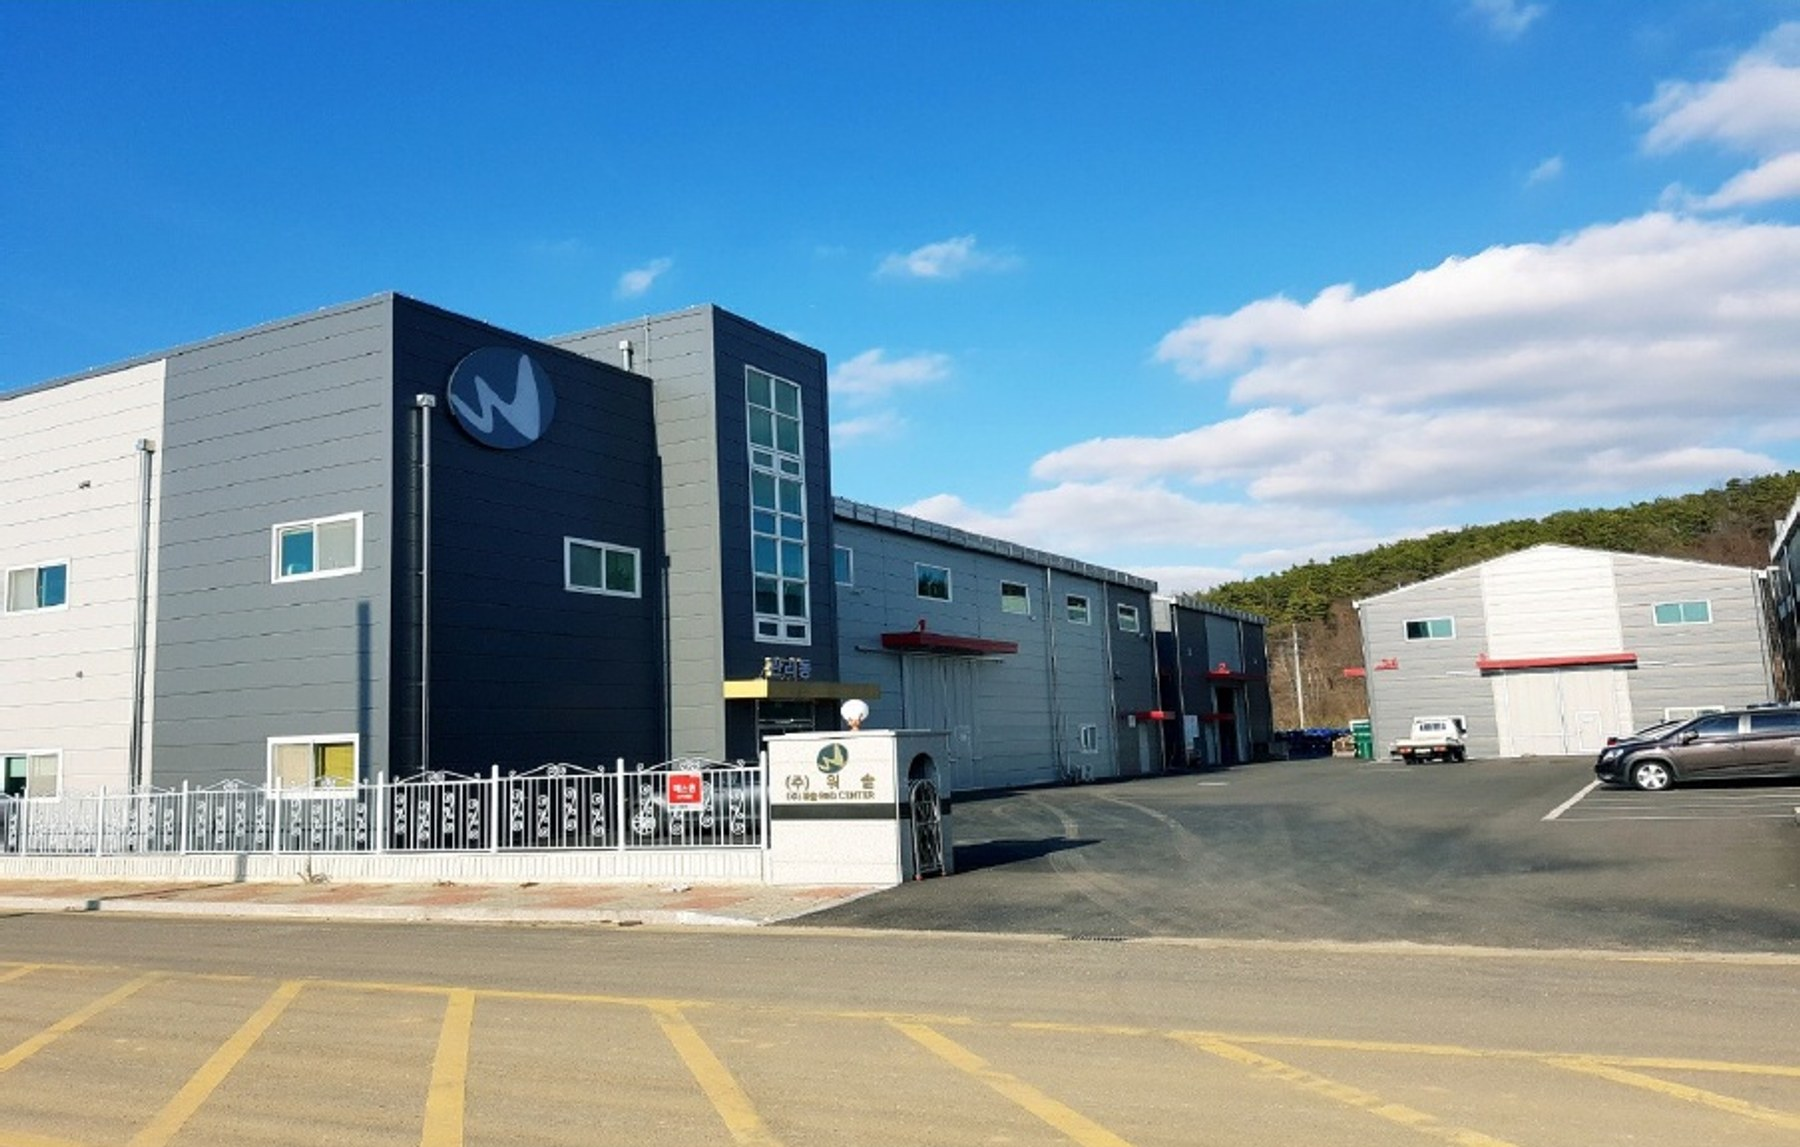
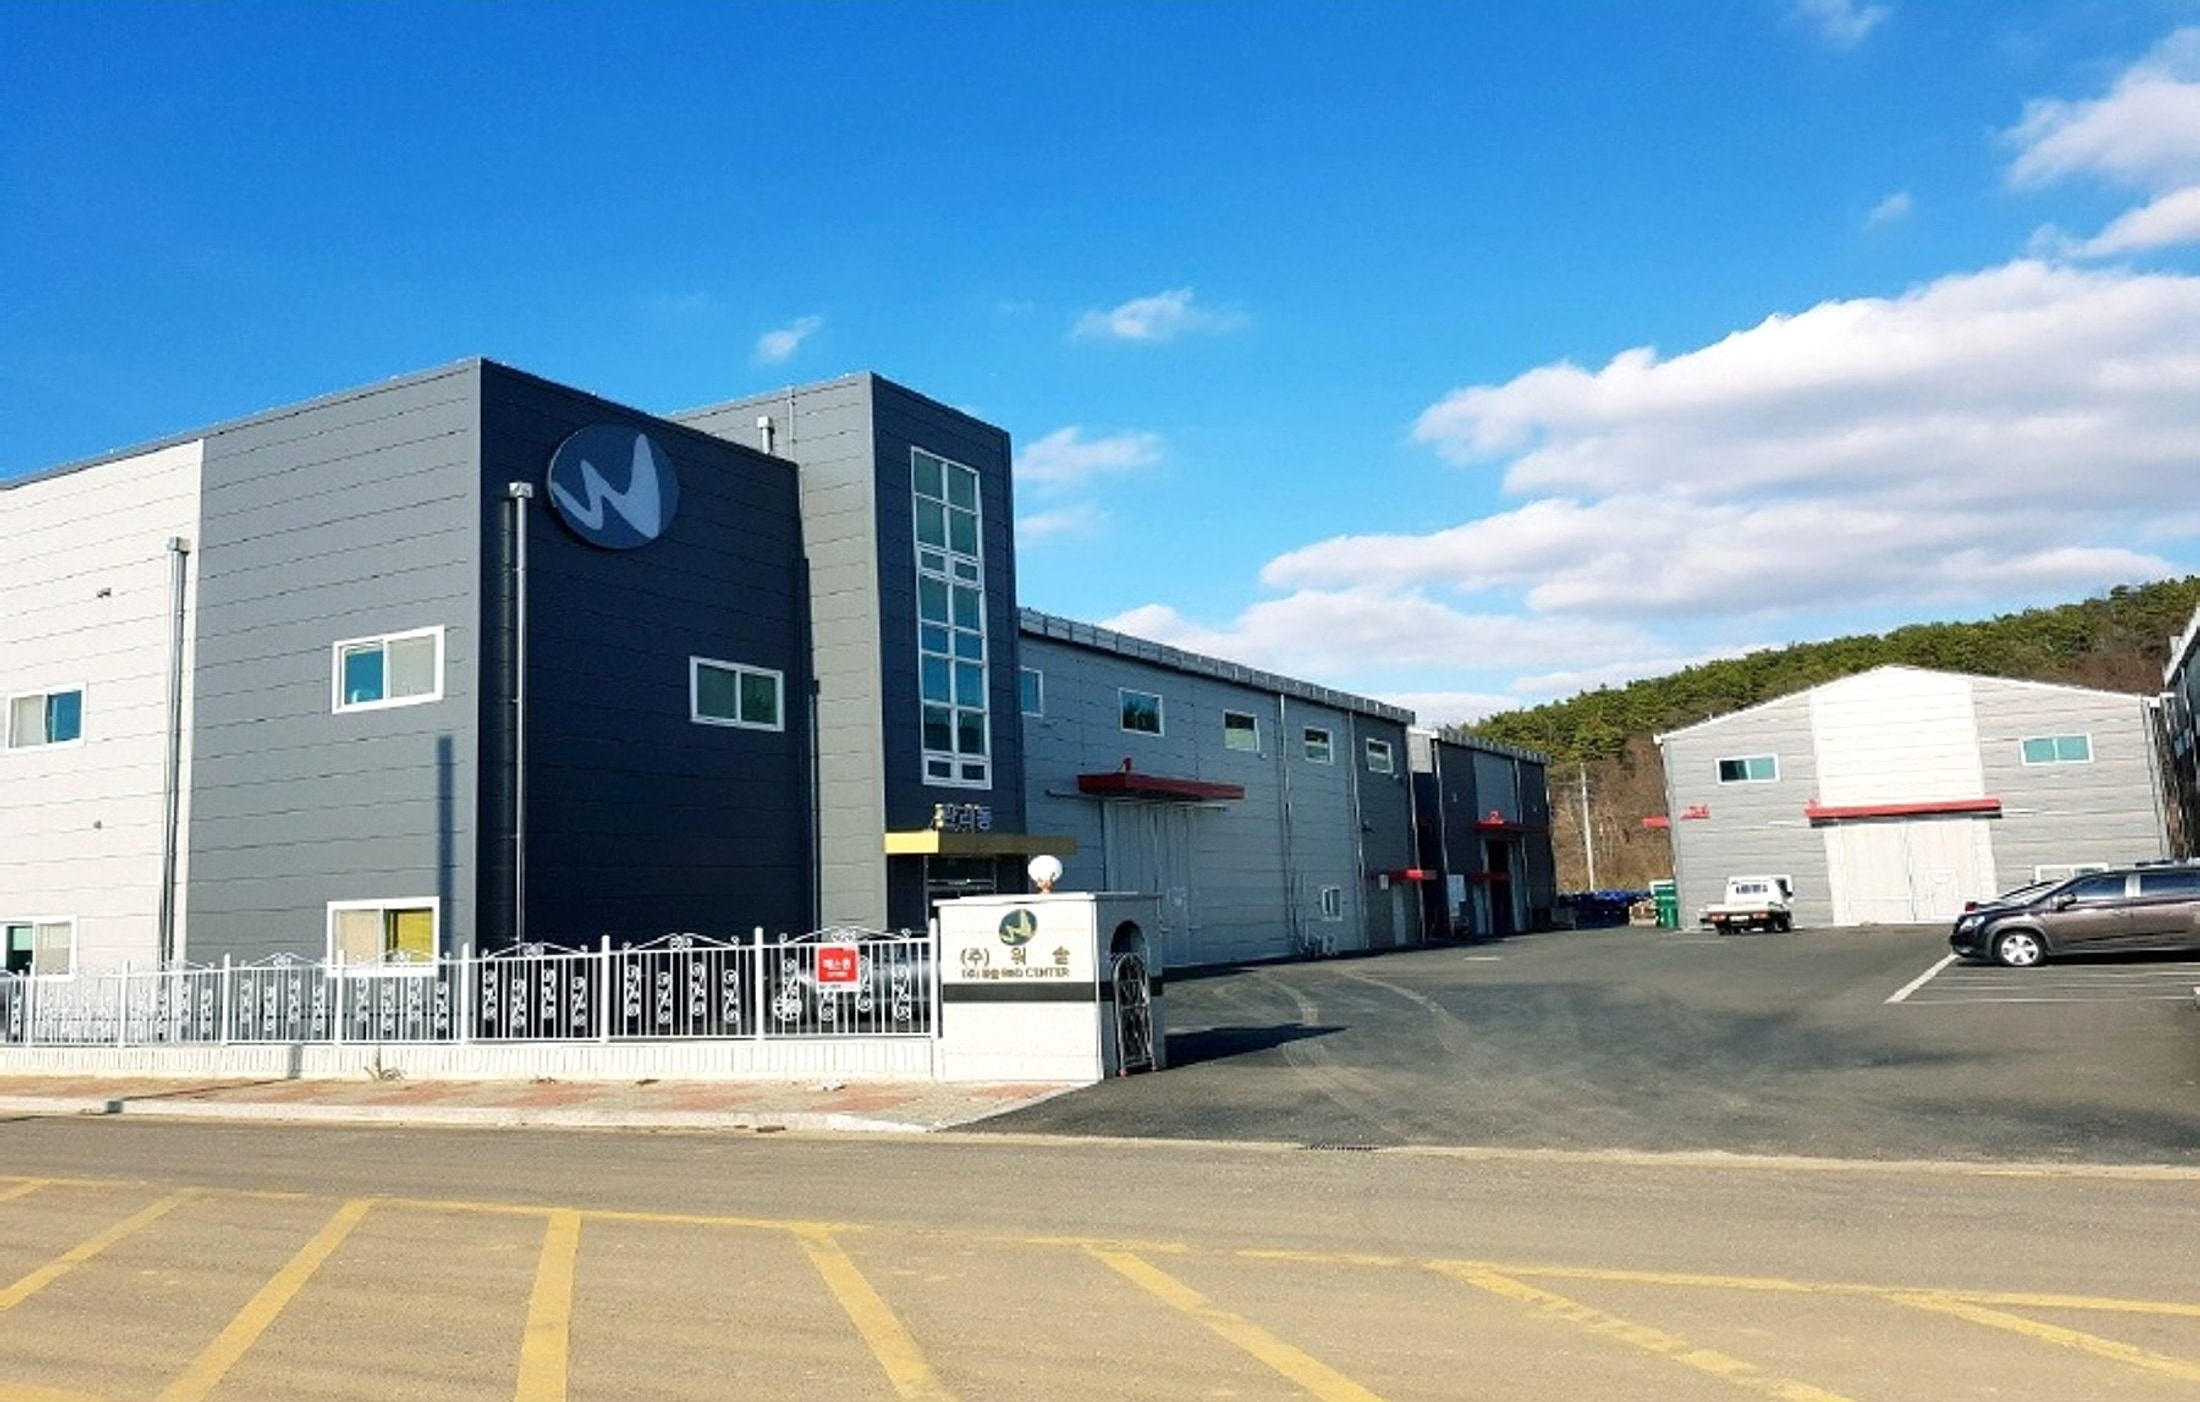
Tune home hero framing

diff --git a/components/sections/LightPremiumHero.tsx b/components/sections/LightPremiumHero.tsx
@@ -36,25 +36,22 @@ const heroEntries = [
 
 export function LightPremiumHero() {
   return (
-    <section className="enterprise-photo-hero relative overflow-hidden bg-[#06182b] text-white sm:min-h-[720px] lg:min-h-[790px]">
+    <section className="enterprise-photo-hero relative h-[calc(100svh-82px)] min-h-[650px] max-h-[760px] overflow-hidden bg-[#06182b] text-white">
       <Image
         src={`${publicAssetPrefix}/images/hero/warsol-hwaseong-factory-hero.jpg`}
         alt="경기도 화성시 전곡산업단지에 위치한 WARSOL 공장 전경"
         fill
         priority
         sizes="100vw"
-        className="object-cover object-center"
+        className="object-cover object-[center_58%] brightness-[1.04] contrast-[1.06] saturate-[1.04]"
       />
-      <div className="absolute inset-0 bg-[linear-gradient(90deg,rgba(2,8,23,0.12)_0%,rgba(5,20,37,0.25)_42%,rgba(2,8,23,0.78)_100%)]" />
-      <div className="absolute inset-0 bg-[linear-gradient(180deg,rgba(2,8,23,0.08)_0%,rgba(2,8,23,0.04)_38%,rgba(2,8,23,0.74)_100%)]" />
+      <div className="absolute inset-0 bg-[linear-gradient(90deg,rgba(2,8,23,0.08)_0%,rgba(5,20,37,0.18)_42%,rgba(2,8,23,0.64)_100%)]" />
+      <div className="absolute inset-0 bg-[linear-gradient(180deg,rgba(2,8,23,0.04)_0%,rgba(2,8,23,0.02)_38%,rgba(2,8,23,0.58)_100%)]" />
 
-      <div className="container relative z-10 flex min-h-[560px] items-center justify-end pb-12 pt-20 text-right sm:min-h-[720px] sm:pb-44 sm:pt-24 lg:min-h-[790px] lg:pb-48">
-        <Reveal className="ml-auto w-full max-w-[640px] min-w-0">
+      <div className="container relative z-10 flex h-full items-center justify-end pb-[142px] pt-12 text-right sm:pb-[150px] lg:pb-[154px]">
+        <Reveal className="ml-auto w-full max-w-[720px] min-w-0 lg:translate-x-10 xl:translate-x-16">
           <div>
-            <p className="break-words text-sm font-black tracking-normal text-white/76">
-              워솔 소재 기술
-            </p>
-            <h1 className="mt-5 break-words text-[2.35rem] font-black leading-[1.08] text-white sm:text-6xl sm:leading-[1.04] lg:text-7xl">
+            <h1 className="break-words text-[2.35rem] font-black leading-[1.08] text-white sm:text-6xl sm:leading-[1.04] lg:text-7xl">
               <span className="block">산업의 표면과 안전을</span>
               <span className="block">바꾸는 소재 기술</span>
             </h1>
@@ -86,7 +83,7 @@ export function LightPremiumHero() {
             <Link
               key={entry.href}
               href={entry.href}
-              className="group min-w-0 border-b border-white/16 px-4 py-5 transition hover:bg-white/12 sm:border-r sm:px-5 lg:min-h-[138px] lg:border-b-0"
+              className="group min-w-0 border-b border-white/16 px-4 py-4 transition hover:bg-white/12 sm:border-r sm:px-5 lg:min-h-[118px] lg:border-b-0"
             >
               <p className="break-words text-xs font-black text-white/56">{entry.label}</p>
               <h2 className="mt-3 break-words text-xl font-black leading-tight text-white">
